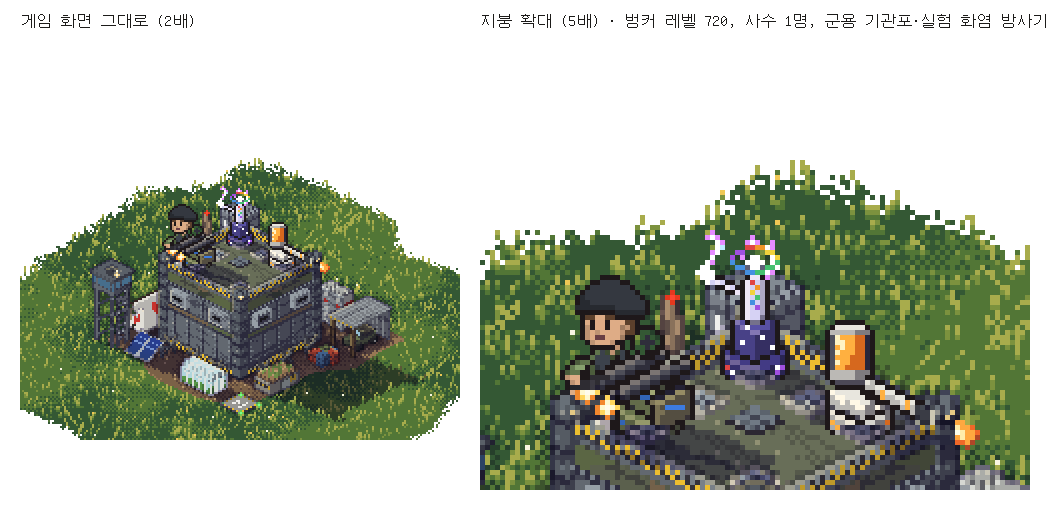
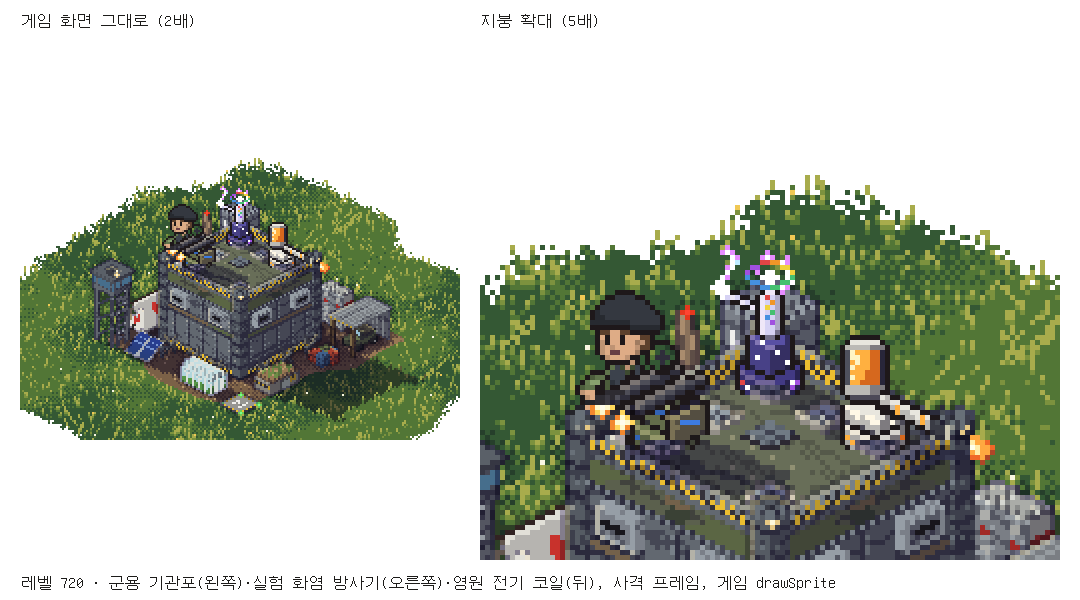
벙커 게임: 터렛 32종(4방향·대기·사격)과 유물 아이콘 48개 완성
Claude-Session: https://claude.ai/code/session_01USGU6N83yXkH8dgcQ8Ce2W

diff --git a/bunker/tools/turrets.py b/bunker/tools/turrets.py
@@ -2,23 +2,28 @@
 """Turrets for the bunker game: 32 turrets (8 grades x 4 roles, the order of TURRETS in src/logic/gear.mjs),
 every pixel placed by hand.
 
-Run from this folder:  python3 turrets.py           -> writes ../art/turrets.js (window.ART_TURRETS)
-                       python3 turrets.py --sheet   -> also writes ../samples/turrets/sheet.png (needs Pillow)
-                       python3 turrets.py --check DIR  -> a quick 4-facing check sheet into DIR
+Run from this folder:  python3 turrets.py               -> writes ../art/turrets.js (window.ART_TURRETS)
+                       python3 turrets.py --sheet 2,7   -> also writes ../samples/turrets/sheet.png (needs Pillow):
+                                                           all cards, and every role's four facings for those grades
+                       python3 turrets.py --check DIR   -> a quick sheet of every turret's frames into DIR
 
 How a turret is made
-- A frame is 32x32 game pixels; the anchor (ax, ay) = (16, 28) is the middle of the turret ring's foot, the
-  point that stands on the bunker's mount (SITES.mounts in src/yard.js). A turret is 20-27 px tall.
-- Two parts: the ring (one per grade; it never turns) and the head (one per turret; it turns). The head is drawn
-  by hand looking down-right (se: +x in the world) and looking up-left (nw: -x). Every head is symmetric about
-  the way it looks, so looking down-left (sw: +y) and up-right (ne: -y) are the same pixels mirrored, with the
-  two wall shades swapped so the light still comes from the top left (the game's light: the top bright, the
-  wall facing down-left mid, the wall facing down-right dark).
+- A frame is 48x40 game pixels so the fire frame's flash, flame, frost, arcs and rockets fit; the turret itself is
+  drawn in a 32x32 box placed at (8, 7) and stands 20-27 px tall. The anchor (ax, ay) = (24, 35) is the middle
+  of the turret ring's foot, the point that stands on the bunker's mount (SITES.mounts in src/yard.js).
+- Two parts: the ring (one per grade, with a band in the UI grade colour; it never turns) and the head (one per
+  turret; it turns). The head is drawn by hand looking down-right (se: +x in the world) and looking up-left (nw:
+  -x). Every head is symmetric about the way it looks, so looking down-left (sw: +y) and up-right (ne: -y) are
+  the same pixels mirrored, with the two wall shades swapped so the light still comes from the top left (the
+  game's light: the top bright, the wall facing down-left mid, the wall facing down-right dark).
+- Parts are hand-drawn stamps laid in order (a receiver, barrels, a tank, a coil...); a part may reappear in
+  another turret of the same grade (the experimental coil stands on the experimental cannon's receiver).
 - Colours: every material is one base colour run through the engine's own ramp (rampOf in engine.js), five
   shades from violet shadow to warm light, the same way the bunker is shaded. Outline rgb(30,24,26) as on the
-  survivors and zombies.
+  survivors and zombies. Grade materials match the weapon cards (tools/weapons.py).
 - The fire frame: barrels and tubes kick back along their axis (they never jump sideways) and the muzzle shows
   its flash, flame, frost, arc or blast for that one frame only (no trail).
+- The card (32x32): the idle down-right turret on a floor in its grade colour, centred across the card.
 
 Letters (one palette per turret)
   o outline   K bore black   W glint
